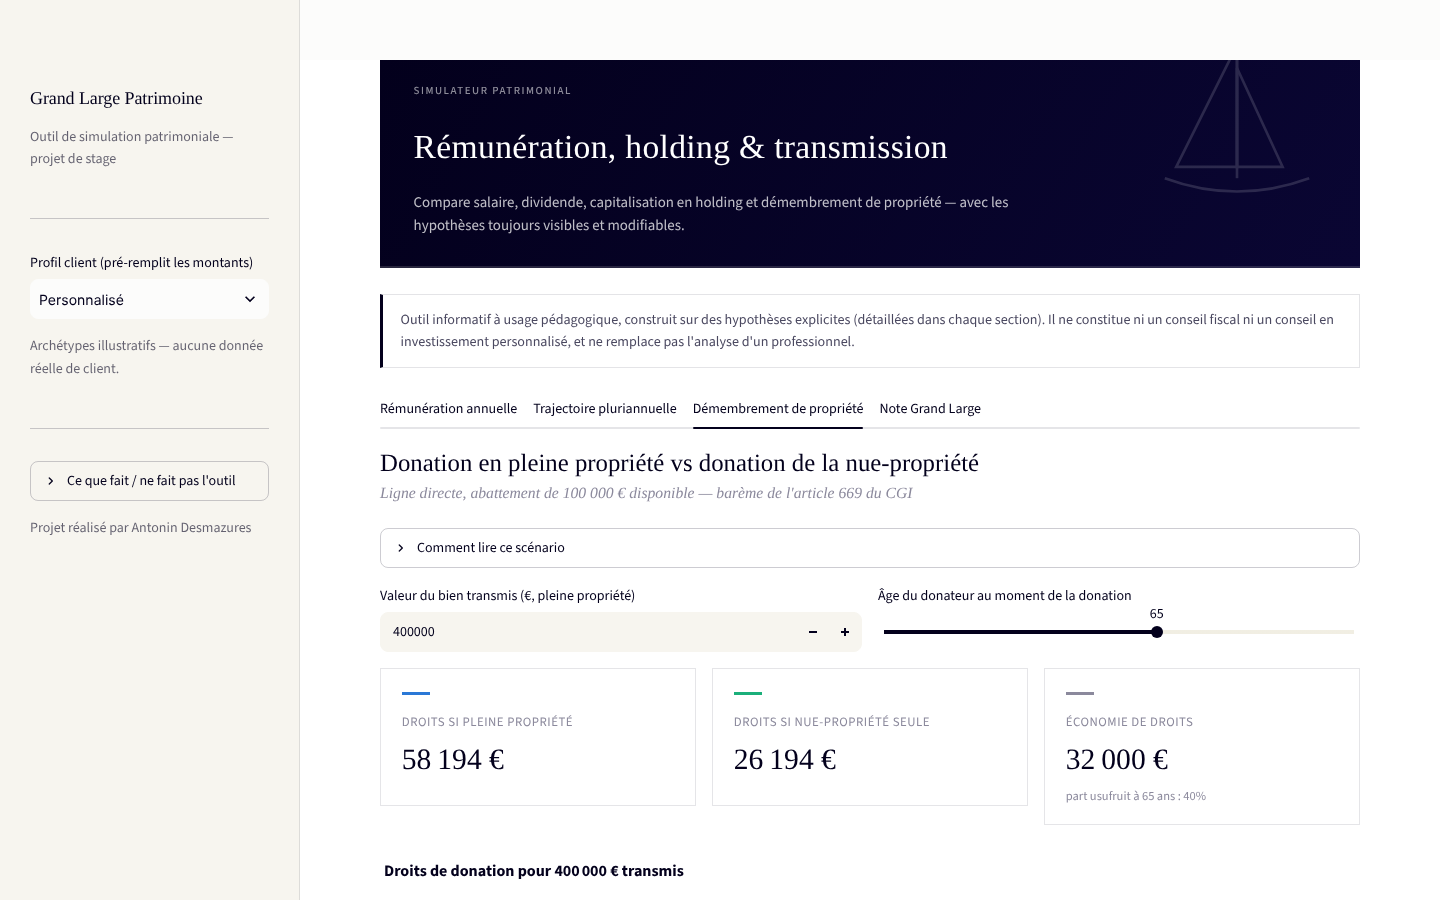
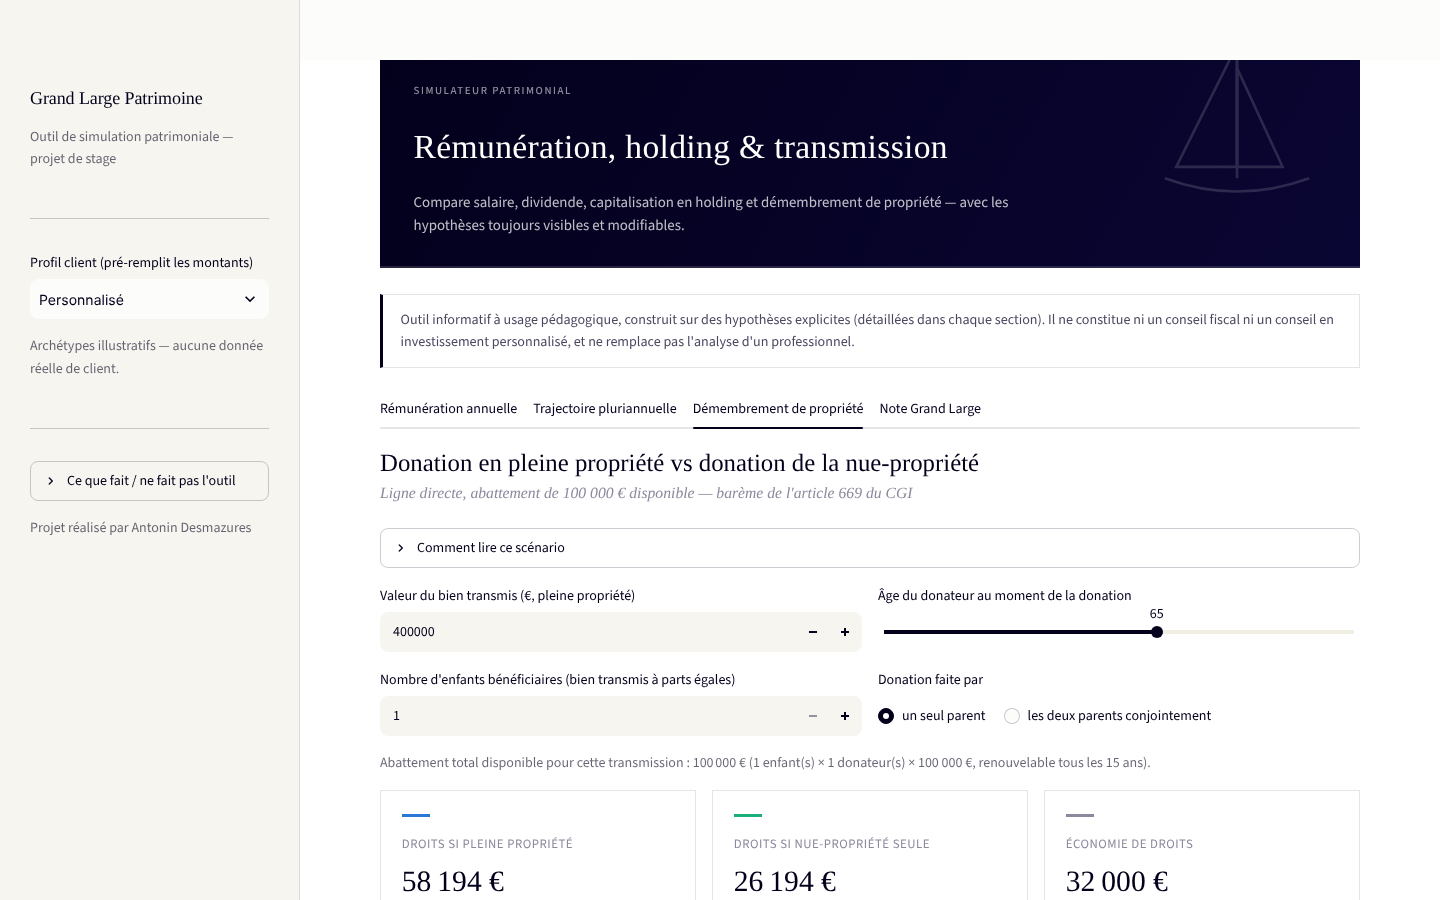
Corrige l'abattement de donation : par enfant ET par parent, pas un montant unique global
L'abattement de 100 000 € en ligne directe (article 779 du CGI, confirmé
via service-public.gouv.fr) s'applique individuellement pour chaque couple
parent-enfant, pas une seule fois pour toute la transmission. Le module
démembrement traitait jusqu'ici tout bien comme transmis par un seul parent
à un seul enfant, ce qui surestimait systématiquement les droits dus dès
qu'une famille compte plusieurs enfants ou que les deux parents donnent
conjointement.

- demembrement.py : nouvelle fonction calcul_droits_donation_famille, qui
  répartit la valeur transmise en (nombre_enfants x nombre_donateurs) parts
  et applique le barème progressif (abattement compris) à chaque part ;
  comparer_transmission() prend ces deux paramètres (défaut 1/1, donc
  aucune régression sur le comportement précédent).
- app.py : ajout des champs "nombre d'enfants" et "un seul parent / les
  deux parents conjointement" dans l'onglet Démembrement, avec rappel du
  montant d'abattement total réellement disponible et explication dans
  l'encart pédagogique.
- tests_sanity.py : 5 nouveaux tests dont un test de non-régression
  explicite sur l'ancienne API à un enfant/un donateur.
- README.md : mise à jour du nombre de tests (39) et de la description du
  module 3.

Claude-Session: https://claude.ai/code/session_013d8botr14ACMNDxZSsXeTk

diff --git a/demembrement.py b/demembrement.py
@@ -93,17 +93,58 @@ def calcul_droits_donation(valeur_transmise, abattement=ABATTEMENT_DONATION_LIGN
     return droits
 
 
-def comparer_transmission(valeur_bien, age_donateur, abattement=ABATTEMENT_DONATION_LIGNE_DIRECTE):
+def calcul_droits_donation_famille(
+    valeur_transmise,
+    nombre_enfants=1,
+    nombre_donateurs=1,
+    abattement=ABATTEMENT_DONATION_LIGNE_DIRECTE,
+):
+    """
+    Droits de donation en ligne directe pour une famille, en tenant compte
+    du fait que l'abattement de l'article 779 du CGI s'applique PAR ENFANT
+    ET PAR PARENT (et non une seule fois pour toute la transmission) :
+    un enfant avec ses deux parents vivants peut recevoir jusqu'à
+    200 000 € (2 x 100 000 €) en franchise de droits, et ce montant se
+    multiplie par le nombre d'enfants si le bien leur est transmis à parts
+    égales. On répartit donc la valeur transmise en autant de parts
+    (enfants x donateurs) et on applique le barème progressif, abattement
+    compris, à chaque part séparément - puis on additionne.
+    Source : service-public.gouv.fr (art. 779 et 784 du CGI).
+    """
+    nombre_enfants = max(1, nombre_enfants)
+    nombre_donateurs = max(1, nombre_donateurs)
+    nombre_parts = nombre_enfants * nombre_donateurs
+    valeur_par_part = valeur_transmise / nombre_parts
+    droits_par_part = calcul_droits_donation(valeur_par_part, abattement)
+    return droits_par_part * nombre_parts
+
+
+def comparer_transmission(
+    valeur_bien,
+    age_donateur,
+    nombre_enfants=1,
+    nombre_donateurs=1,
+    abattement=ABATTEMENT_DONATION_LIGNE_DIRECTE,
+):
     """
     Compare les droits de donation entre une transmission en pleine
     propriété et une donation de la seule nue-propriété (usufruit
-    conservé par le donateur jusqu'à son décès).
+    conservé par le donateur jusqu'à son décès), pour une famille de
+    nombre_enfants enfants, la donation étant faite par nombre_donateurs
+    parent(s) (1 = un seul parent donateur, 2 = les deux parents donnent
+    conjointement, chacun avec son propre abattement).
     """
     valeur_usufruit, valeur_nue_propriete = valeur_usufruit_nue_propriete(age_donateur, valeur_bien)
-    droits_pleine_propriete = calcul_droits_donation(valeur_bien, abattement)
-    droits_demembrement = calcul_droits_donation(valeur_nue_propriete, abattement)
+    droits_pleine_propriete = calcul_droits_donation_famille(
+        valeur_bien, nombre_enfants, nombre_donateurs, abattement
+    )
+    droits_demembrement = calcul_droits_donation_famille(
+        valeur_nue_propriete, nombre_enfants, nombre_donateurs, abattement
+    )
     return {
         "valeur_bien": valeur_bien,
+        "nombre_enfants": nombre_enfants,
+        "nombre_donateurs": nombre_donateurs,
         "pourcentage_usufruit": pourcentage_usufruit(age_donateur),
         "valeur_usufruit": valeur_usufruit,
         "valeur_nue_propriete": valeur_nue_propriete,
@@ -114,8 +155,8 @@ def comparer_transmission(valeur_bien, age_donateur, abattement=ABATTEMENT_DONAT
 
 
 if __name__ == "__main__":
-    resultat = comparer_transmission(valeur_bien=400_000, age_donateur=65)
-    print(f"Bien de {resultat['valeur_bien']:,.0f} €, donateur de 65 ans")
+    resultat = comparer_transmission(valeur_bien=400_000, age_donateur=65, nombre_enfants=2, nombre_donateurs=2)
+    print(f"Bien de {resultat['valeur_bien']:,.0f} €, donateur de 65 ans, {resultat['nombre_enfants']} enfant(s), {resultat['nombre_donateurs']} parent(s) donateur(s)")
     print(f"Part usufruit : {resultat['pourcentage_usufruit']:.0%} -> nue-propriété transmise : {resultat['valeur_nue_propriete']:,.0f} €")
     print(f"Droits si donation en pleine propriété : {resultat['droits_pleine_propriete']:,.0f} €")
     print(f"Droits si donation de la nue-propriété  : {resultat['droits_demembrement']:,.0f} €")

diff --git a/app.py b/app.py
@@ -636,6 +636,13 @@ with tab3:
             "- **Au décès du parent**, l'usufruit s'éteint et l'enfant devient "
             "plein propriétaire **sans droit supplémentaire** (article 1133 "
             "du CGI).\n"
+            "- **L'abattement de 100 000 € est individuel : par parent, et par "
+            "enfant** (article 779 du CGI, source service-public.gouv.fr). Un "
+            "enfant qui a ses deux parents vivants peut donc recevoir jusqu'à "
+            "200 000 € en franchise de droits, et ce total se multiplie par le "
+            "nombre d'enfants si le bien leur est transmis à parts égales — "
+            "d'où les deux curseurs ci-dessous, qui changent fortement le "
+            "résultat.\n"
             "- **Contrepartie** : avec la nue-propriété seule, l'enfant "
             "n'a pas l'usage ou les revenus du bien avant l'extinction de "
             "l'usufruit — ce n'est pas strictement equivalent à une pleine "
@@ -647,7 +654,21 @@ with tab3:
     valeur_bien = col1.number_input("Valeur du bien transmis (€, pleine propriété)", min_value=0, max_value=10_000_000, value=400_000, step=10_000)
     age_donateur = col2.slider("Âge du donateur au moment de la donation", min_value=18, max_value=99, value=65)
 
-    resultat_demembrement = comparer_transmission(valeur_bien, age_donateur)
+    col3, col4 = st.columns(2)
+    nombre_enfants = col3.number_input("Nombre d'enfants bénéficiaires (bien transmis à parts égales)", min_value=1, max_value=10, value=1, step=1)
+    nombre_donateurs = col4.radio(
+        "Donation faite par",
+        options=[1, 2],
+        format_func=lambda n: "un seul parent" if n == 1 else "les deux parents conjointement",
+        horizontal=True,
+    )
+
+    resultat_demembrement = comparer_transmission(valeur_bien, age_donateur, nombre_enfants, nombre_donateurs)
+    nombre_parts = nombre_enfants * nombre_donateurs
+    st.caption(
+        f"Abattement total disponible pour cette transmission : {fmt_euro(100_000 * nombre_parts)} "
+        f"({nombre_enfants} enfant(s) × {nombre_donateurs} donateur(s) × 100 000 €, renouvelable tous les 15 ans)."
+    )
 
     col1, col2, col3 = st.columns(3)
     with col1:
@@ -706,6 +727,7 @@ with tab3:
                     valeur_bien,
                     resultat_demembrement["valeur_usufruit"],
                     resultat_demembrement["valeur_nue_propriete"],
+                    100_000 * nombre_parts,
                     resultat_demembrement["droits_pleine_propriete"],
                     resultat_demembrement["droits_demembrement"],
                     resultat_demembrement["economie_droits"],
@@ -715,6 +737,7 @@ with tab3:
                 "Valeur du bien (pleine propriété)",
                 f"Valeur de l'usufruit ({resultat_demembrement['pourcentage_usufruit']:.0%})",
                 f"Valeur de la nue-propriété ({1 - resultat_demembrement['pourcentage_usufruit']:.0%})",
+                f"Abattement total ({nombre_enfants} enfant(s) × {nombre_donateurs} donateur(s))",
                 "Droits si donation en pleine propriété",
                 "Droits si donation de la nue-propriété",
                 "Économie de droits",
@@ -725,7 +748,7 @@ with tab3:
     st.download_button(
         "Télécharger ce scénario (CSV)",
         data=df_demembrement.to_csv().encode("utf-8"),
-        file_name=f"demembrement_{valeur_bien}_{age_donateur}ans.csv",
+        file_name=f"demembrement_{valeur_bien}_{nombre_enfants}enf_{age_donateur}ans.csv",
         mime="text/csv",
     )
 

diff --git a/tests_sanity.py b/tests_sanity.py
@@ -117,6 +117,29 @@ verifier("démembrement ne coûte jamais plus cher que la pleine propriété", a
 verifier("cas 400k€ / 65 ans : économie exacte de 32 000€ (vérifié à la main)", abs(comparer_transmission(400_000, 65)["economie_droits"] - 32_000) < 1)
 verifier("sous l'abattement (100k€), aucun droit des deux côtés", comparer_transmission(90_000, 65)["droits_pleine_propriete"] == 0 and comparer_transmission(90_000, 65)["droits_demembrement"] == 0)
 
+# --- abattement par enfant ET par parent (art. 779 CGI) : pas un abattement unique global ---
+verifier(
+    "2 enfants à parts égales = 2x l'abattement d'un seul enfant (sous le seuil, droits nuls des deux côtés)",
+    comparer_transmission(180_000, 65, nombre_enfants=2)["droits_pleine_propriete"] == 0
+)
+verifier(
+    "2 enfants : les droits totaux sont strictement inférieurs à ceux d'un enfant unique sur le même bien",
+    comparer_transmission(500_000, 65, nombre_enfants=2)["droits_pleine_propriete"]
+    < comparer_transmission(500_000, 65, nombre_enfants=1)["droits_pleine_propriete"]
+)
+verifier(
+    "2 parents donateurs conjointement = 2x l'abattement d'un seul parent (sous 200k€, droits nuls)",
+    comparer_transmission(180_000, 65, nombre_donateurs=2)["droits_pleine_propriete"] == 0
+)
+verifier(
+    "1 enfant, 1 bien de 400k, réparti en 2 parts égales (2 enfants) : chaque part de 200k reste sous abattement -> 0€ de droits",
+    comparer_transmission(200_000, 65, nombre_enfants=2)["droits_pleine_propriete"] == 0
+)
+verifier(
+    "nombre_enfants=1 et nombre_donateurs=1 : comportement identique à l'ancienne API (non-régression)",
+    comparer_transmission(400_000, 65, 1, 1)["economie_droits"] == comparer_transmission(400_000, 65)["economie_droits"]
+)
+
 print()
 if echecs:
     print(f"{len(echecs)} échec(s) : {echecs}")

diff --git a/README.md b/README.md
@@ -25,7 +25,7 @@ Garder l'argent en direct vs le faire capitaliser dans une holding, sur plusieur
 ![Trajectoire pluriannuelle](screenshots/02_trajectoire.png)
 
 ### 3 — Démembrement de propriété
-Donation en pleine propriété vs donation de la nue-propriété (usufruit conservé par le donateur) : barème de l'article 669 du CGI, abattements de donation en ligne directe, calcul exact des droits de donation par tranche. Courbe interactive du barème officiel avec le donateur positionné sur sa tranche d'âge.
+Donation en pleine propriété vs donation de la nue-propriété (usufruit conservé par le donateur) : barème de l'article 669 du CGI, abattements de donation en ligne directe, calcul exact des droits de donation par tranche. L'abattement de 100 000 € (article 779 du CGI) s'applique par enfant et par parent — l'outil répartit donc la valeur transmise selon le nombre d'enfants et le nombre de parents donateurs, au lieu d'un abattement unique global. Courbe interactive du barème officiel avec le donateur positionné sur sa tranche d'âge.
 
 ![Démembrement de propriété](screenshots/03_demembrement.png)
 
@@ -37,7 +37,7 @@ Indicateurs de marché et seuils réglementaires organisés autour des 6 solutio
 ## Rigueur méthodologique
 
 - **Aucune hypothèse inventée** : chaque seuil fiscal et chaque chiffre de marché est sourcé (CGI, ACPR, ASPIM, France Invest, France Assureurs, Banque de France...), avec sa date de validité.
-- **34 tests automatisés** (`tests_sanity.py`) : cas limites, monotonie, cohérence de la dichotomie brut ↔ coût total, reproductibilité de la simulation Monte-Carlo, cohérence du barème de démembrement.
+- **39 tests automatisés** (`tests_sanity.py`) : cas limites, monotonie, cohérence de la dichotomie brut ↔ coût total, reproductibilité de la simulation Monte-Carlo, cohérence du barème de démembrement et de la répartition de l'abattement de donation par enfant et par parent.
 - **Compliance-first** : bandeau de non-responsabilité sur chaque onglet, aucune recommandation de produit ou de montant, fourchettes de risque plutôt que performances ponctuelles.
 - **Charte graphique réelle** : couleurs et typographie extraites du site de Grand Large Patrimoine (et non inventées), palette de données validée accessibilité (contraste, daltonisme).
 
@@ -64,7 +64,7 @@ simulation.py        # même comparaison, Monte-Carlo (profils prudent/équilibr
 demembrement.py       # barème art. 669 CGI, droits de donation, pleine propriété vs démembrement
 veille.py             # indicateurs de marché et seuils réglementaires sourcés, organisés par solution GLP
 app.py                # interface Streamlit (4 onglets), charte graphique Grand Large Patrimoine
-tests_sanity.py       # 34 vérifications automatisées sur les 4 modules de calcul
+tests_sanity.py       # 39 vérifications automatisées sur les 4 modules de calcul
 ```
 
 ## Méthodologie — conçu avec Claude (Anthropic)
